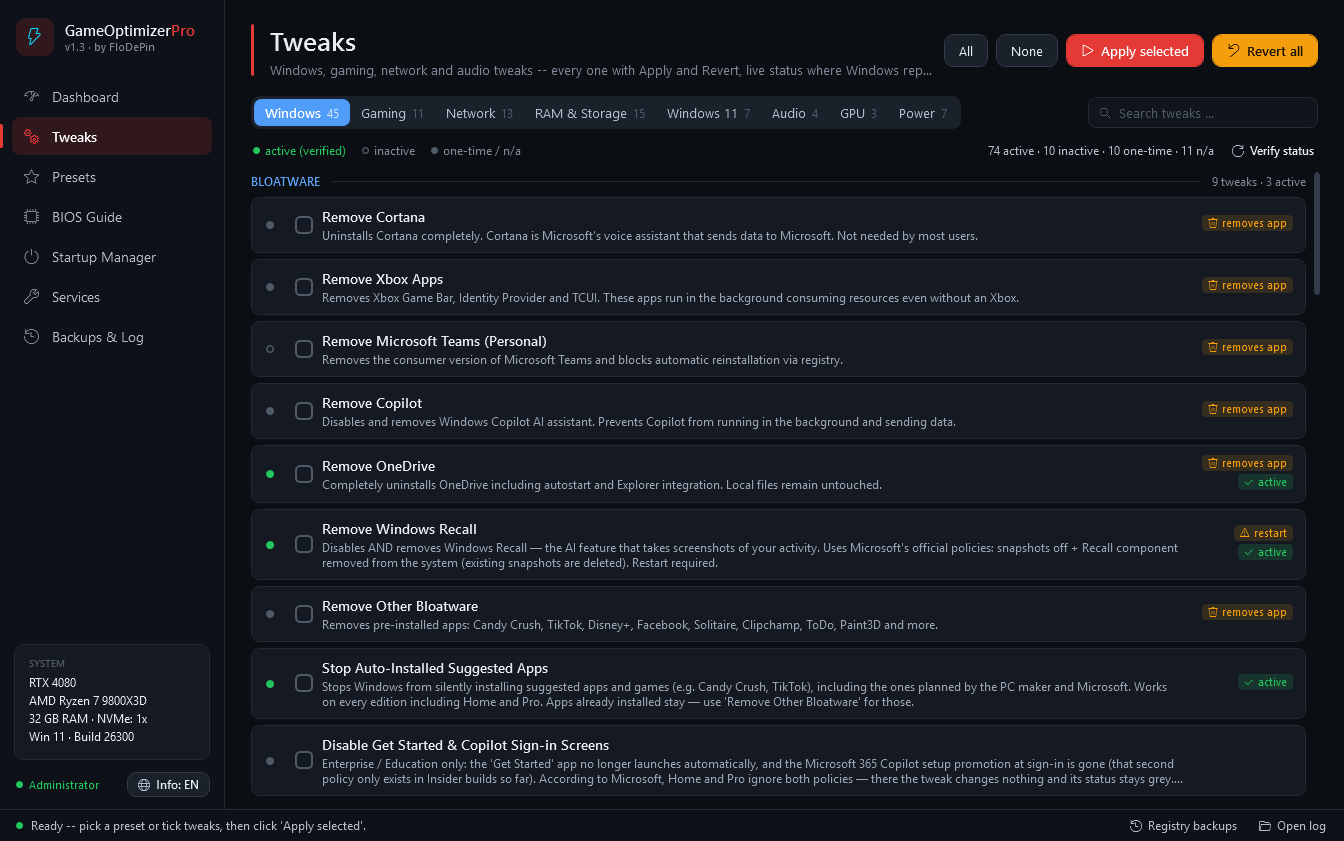
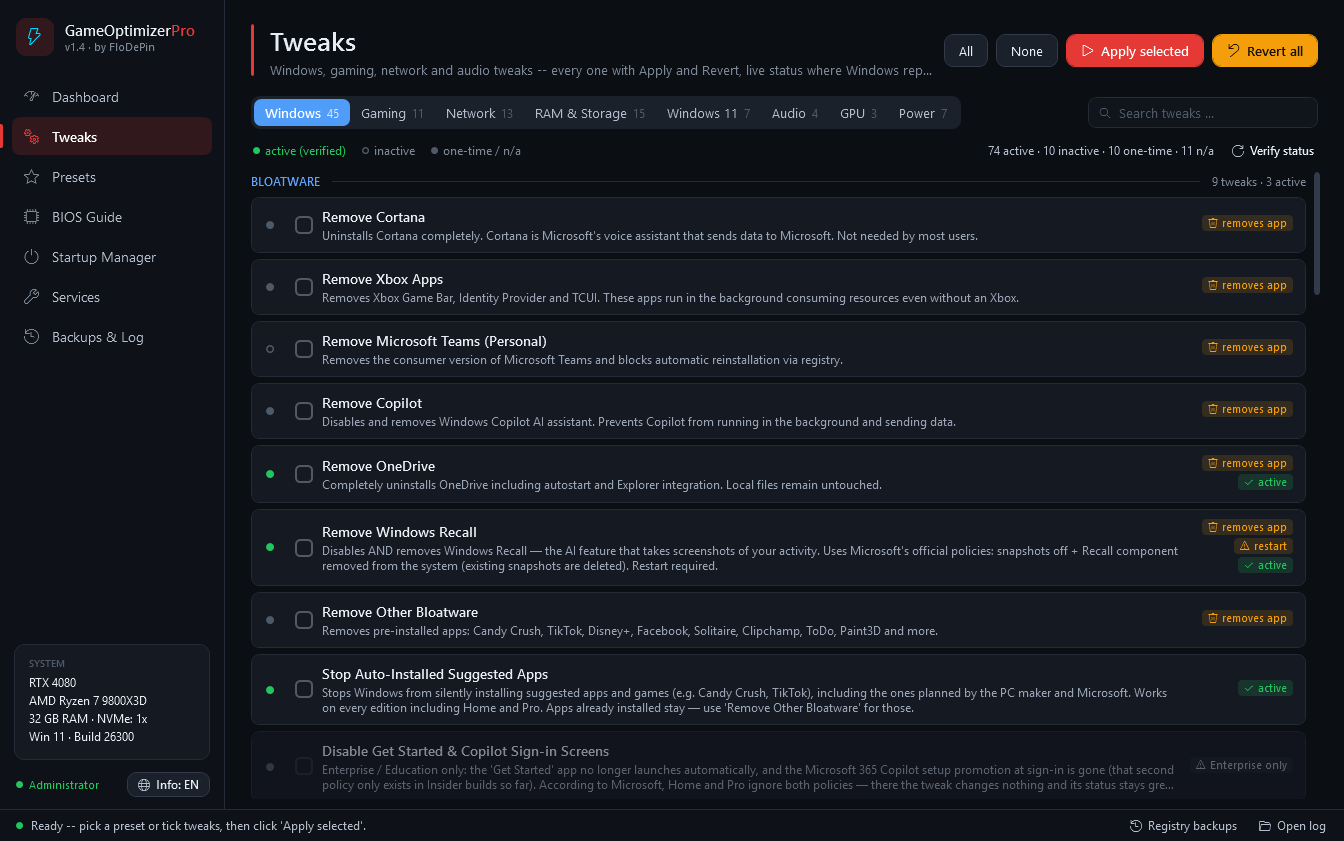
v1.4: fixes from two external reviews (select all, apply result, DNS revert)
- "All" ticks only enabled, visible tweaks of the open tab / search; Apply
  skips disabled checkboxes; both DNS tweaks are never ticked together.
- Apply lists failed tweaks and tweaks whose status check still reports
  them inactive (restart tweaks excluded) instead of "applied successfully".
- HPET: bcdedit exit codes checked, a refusal fails the tweak.
- DNS reverts reset only adapters using that provider (Reset-ProviderDns);
  Windows 11 reverts skipped on Windows 10; Bing revert deletes its values.
- Remove Other Bloatware: shared list (Get-BloatPatterns), status checks
  every removable package on it.
- Location: stop lfsvc on Apply; check covers the service.
- Get Started greyed out on Home/Pro (Enterprise only); Recall counts as an
  app removal (restore point, badge); confirm dialog names the removals.
- Write-Log retries a locked file; registry backup names never collide.
- Removed leftover NVIDIA group handling in the tweak rows.

diff --git a/CHANGELOG.md b/CHANGELOG.md
@@ -4,6 +4,31 @@ All notable changes to GameOptimizerPro (the PowerShell edition), newest first. 
 
 ---
 
+## [1.4] — 2026-10-22
+
+Two more external reviews, checked against the code — what holds is fixed.
+
+- **"All" ticks only what you see and can use** — the open tab (or the search hits), never greyed-out tweaks (Windows 11 only, AMD only, Enterprise only). *Apply* never runs a greyed-out tweak, and the two DNS tweaks are never ticked together.
+- **Apply says what didn't take** — failed tweaks and tweaks Windows still reports as not in effect (a policy, antivirus or a driver without that option) are listed in the result and the log, instead of "applied successfully". The HPET tweak notices when bcdedit is refused (Secure Boot / BitLocker policy).
+- **Revert all leaves your own DNS alone** — only adapters that use Cloudflare / Google go back to automatic; a Pi-hole, router or company DNS stays. Windows 11 reverts no longer run on Windows 10, and *Disable Bing* reverts to "not set" instead of writing 1.
+- **Remove Other Bloatware** — the status checks the whole list it removes (Windows 11 ships no Candy Crush, so an untouched PC used to show green).
+- **Disable Location Tracking** also stops the running service, and the status check covers it.
+- **Get Started & Copilot sign-in screens** — greyed out on Home / Pro (*Enterprise only*), so presets skip it there.
+- **Remove Windows Recall** counts as a removal: a restore point first, the *removes app* badge. The confirm dialog names every removal.
+- The log retries a locked file before dropping a line; registry backup files can't overwrite each other.
+
+<details>
+<summary><b>Development log — 1.4</b></summary>
+
+- **Two reviews** — the first with nine general points, the second fact-checked it and added eight findings. Confirmed and fixed: exit codes of external tools not checked, "All" ticking greyed-out tweaks, the DNS revert, Windows 11 reverts on Windows 10, the Bing revert, the bloatware check, the location service, Get Started selectable on Home / Pro, Recall without a restore point, leftover NVIDIA code.
+- **Not changed, with reasons** — powercfg output is read by its hex values, not its labels (labels are translated, label parsing would break on every non-English Windows), and `/SETACTIVE SCHEME_CURRENT` is what makes a change take effect without a restart; `Get-WmiObject` works in Windows PowerShell 5.1, which the tool is built for; the retired-value cleanup is meant to remove exactly what older versions wrote; the installer already stops with an error message when the launch fails; *Revert all* sets personal settings such as dark mode back to the Windows default by design — its dialog now says so.
+- **Found while testing** — a merged line in the test harness had switched off restoring the environment variables after a synthetic run.
+- **Tests** — six new scenarios (Pi-hole DNS kept, bcdedit refused, bloatware on Windows 11, location service, Bing revert) and "All" in the real window; the real system unchanged.
+
+</details>
+
+---
+
 ## [1.3] — 2026-10-22
 
 An honesty pass: tweaks that never did anything are gone, the safety net is lighter, and two dashboard tools work properly again.
